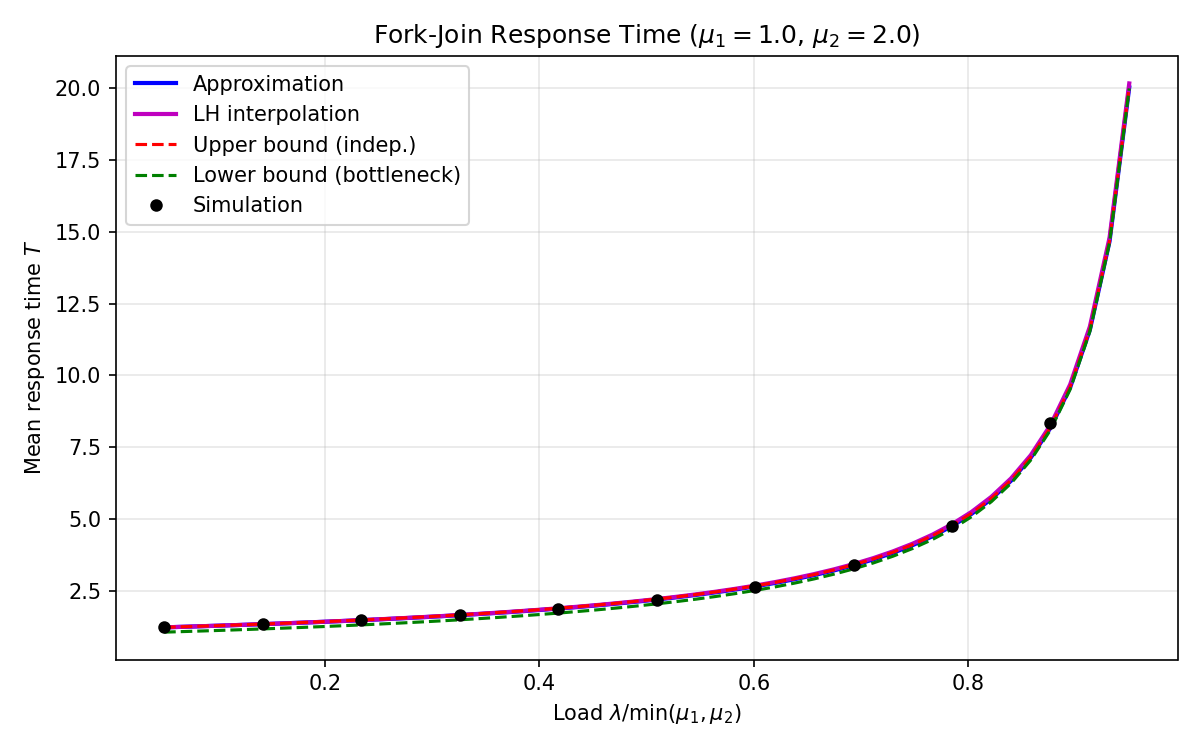
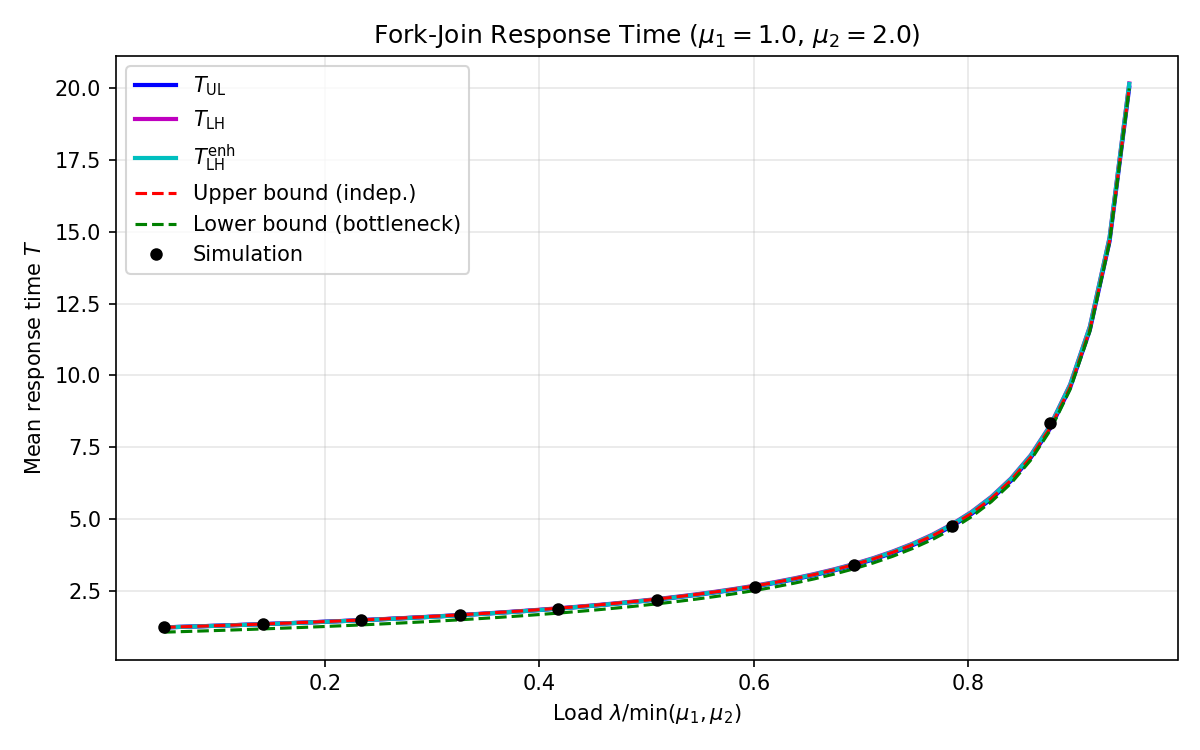
Add T_LH_enh to verify_formulas.py and plotting.py
verify_formulas.py:
- Add T_LH_enh to homogeneous verification (asserts c2=0, exact Nelson-Tantawi)
- Add verify_enhanced_lh() checking exactness at r=1 and improvement at r>=2

plotting.py:
- Add T_LH_enh curve (cyan) to both plot functions
- Use LaTeX labels for all three approximation curves

diff --git a/verify_formulas.py b/verify_formulas.py
@@ -8,6 +8,7 @@ from forkjoin.analytical import (
     nelson_tantawi,
     mean_response_time,
     mean_response_time_lh,
+    mean_response_time_lh_enhanced,
     _validate
 )
 
@@ -32,13 +33,19 @@ def verify_homogeneous():
             print(f"\nlam={lam:.1f}, rho={rho:.2f}")
             print(f"  Nelson-Tantawi: {t_nelson:.6f}")
             print(f"  T_UL:            {t_ul:.6f}  (error: {(t_ul-t_nelson)/t_nelson*100:.4f}%)")
+            t_lhe = mean_response_time_lh_enhanced(lam, mu, mu)
             print(f"  T_LH:            {t_lh:.6f}  (error: {(t_lh-t_nelson)/t_nelson*100:.4f}%)")
+            print(f"  T_LH_enh:        {t_lhe:.6f}  (error: {(t_lhe-t_nelson)/t_nelson*100:.4f}%)")
             print(f"  T_UB:            {t_ub:.6f}")
             print(f"  T_bot:           {t_bot:.6f}")
 
             # Verify T_UL is close to Nelson-Tantawi
             assert abs(t_ul - t_nelson) / t_nelson < 1e-10, "T_UL should exactly match Nelson-Tantawi"
             print("  ✓ T_UL = Nelson-Tantawi (exact)")
+
+            # Verify T_LH_enh = T_LH in homogeneous case (c2 must be zero)
+            assert abs(t_lhe - t_nelson) / t_nelson < 1e-10, "T_LH_enh should exactly match Nelson-Tantawi"
+            print("  ✓ T_LH_enh = Nelson-Tantawi (exact, c2=0)")
 
         except Exception as e:
             print(f"  Error: {e}")
@@ -114,8 +121,44 @@ def verify_formulas():
     print(f"  Difference:      {t_impl - t_simplified:.2e}")
     print(f"  Relative error:  {(t_impl - t_simplified)/t_simplified*100:.6f}%")
 
+def verify_enhanced_lh():
+    """Verify T_LH_enh properties: homogeneous exactness and improvement at high r."""
+    print("\n" + "=" * 60)
+    print("ENHANCED LH VERIFICATION")
+    print("=" * 60)
+
+    # 1. Homogeneous: c2 must be zero, result must equal Nelson-Tantawi exactly
+    print("\n--- Homogeneous case (r=1): T_LH_enh must equal Nelson-Tantawi ---")
+    mu = 1.0
+    for lam in [0.1, 0.3, 0.6, 0.9]:
+        t_nt  = nelson_tantawi(lam, mu)
+        t_lhe = mean_response_time_lh_enhanced(lam, mu, mu)
+        err   = abs(t_lhe - t_nt) / t_nt
+        assert err < 1e-10, f"T_LH_enh != Nelson-Tantawi at lam={lam}: err={err}"
+        print(f"  lam={lam:.1f}: T_NT={t_nt:.6f}  T_LH_enh={t_lhe:.6f}  err={err:.2e}  ✓")
+
+    # 2. Heterogeneous (r>=2): T_LH_enh should be closer to simulation than T_LH
+    # We use the known simulation values from the paper as reference
+    print("\n--- High heterogeneity (r>=2): T_LH_enh error < T_LH error ---")
+    sim_values = {
+        (1.0, 2.0, 0.3): 1.582,
+        (1.0, 2.0, 0.6): 2.623,
+        (1.0, 3.0, 0.6): 2.546,
+        (1.0, 5.0, 0.6): 2.514,
+    }
+    for (mu1, mu2, lam), t_sim in sim_values.items():
+        t_lh  = mean_response_time_lh(lam, mu1, mu2)
+        t_lhe = mean_response_time_lh_enhanced(lam, mu1, mu2)
+        err_lh  = abs(t_lh  - t_sim) / t_sim * 100
+        err_lhe = abs(t_lhe - t_sim) / t_sim * 100
+        better = "✓" if err_lhe < err_lh else "✗"
+        print(f"  mu1={mu1}, mu2={mu2}, lam={lam}: "
+              f"T_LH err={err_lh:.2f}%  T_LH_enh err={err_lhe:.2f}%  {better}")
+
+
 if __name__ == "__main__":
     import math
     verify_homogeneous()
     verify_heterogeneous()
     verify_formulas()
+    verify_enhanced_lh()

diff --git a/forkjoin/plotting.py b/forkjoin/plotting.py
@@ -18,12 +18,14 @@ def plot_vs_load(mu1, mu2, lam_points=50, run_simulation=True, n_jobs=500_000):
 
     t_approx = [analytical.mean_response_time(l, mu1, mu2) for l in lams]
     t_lh = [analytical.mean_response_time_lh(l, mu1, mu2) for l in lams]
+    t_lhe = [analytical.mean_response_time_lh_enhanced(l, mu1, mu2) for l in lams]
     t_ub = [analytical.upper_bound_independent(l, mu1, mu2) for l in lams]
     t_bot = [analytical.lower_bound_bottleneck(l, mu1, mu2) for l in lams]
 
     fig, ax = plt.subplots(figsize=(8, 5))
-    ax.plot(loads, t_approx, "b-", linewidth=2, label="Approximation")
-    ax.plot(loads, t_lh, "m-", linewidth=2, label="LH interpolation")
+    ax.plot(loads, t_approx, "b-", linewidth=2, label=r"$T_{\mathrm{UL}}$")
+    ax.plot(loads, t_lh, "m-", linewidth=2, label=r"$T_{\mathrm{LH}}$")
+    ax.plot(loads, t_lhe, "c-", linewidth=2, label=r"$T_{\mathrm{LH}}^{\mathrm{enh}}$")
     ax.plot(loads, t_ub, "r--", linewidth=1.5, label="Upper bound (indep.)")
     ax.plot(loads, t_bot, "g--", linewidth=1.5, label="Lower bound (bottleneck)")
 
@@ -56,12 +58,14 @@ def plot_vs_heterogeneity(mu1, lam, mu2_range, run_simulation=True, n_jobs=500_0
 
     t_approx = [analytical.mean_response_time(lam, mu1, m) for m in mu2_arr]
     t_lh = [analytical.mean_response_time_lh(lam, mu1, m) for m in mu2_arr]
+    t_lhe = [analytical.mean_response_time_lh_enhanced(lam, mu1, m) for m in mu2_arr]
     t_ub = [analytical.upper_bound_independent(lam, mu1, m) for m in mu2_arr]
     t_bot = [analytical.lower_bound_bottleneck(lam, mu1, m) for m in mu2_arr]
 
     fig, ax = plt.subplots(figsize=(8, 5))
-    ax.plot(ratios, t_approx, "b-", linewidth=2, label="Approximation")
-    ax.plot(ratios, t_lh, "m-", linewidth=2, label="LH interpolation")
+    ax.plot(ratios, t_approx, "b-", linewidth=2, label=r"$T_{\mathrm{UL}}$")
+    ax.plot(ratios, t_lh, "m-", linewidth=2, label=r"$T_{\mathrm{LH}}$")
+    ax.plot(ratios, t_lhe, "c-", linewidth=2, label=r"$T_{\mathrm{LH}}^{\mathrm{enh}}$")
     ax.plot(ratios, t_ub, "r--", linewidth=1.5, label="Upper bound (indep.)")
     ax.plot(ratios, t_bot, "g--", linewidth=1.5, label="Lower bound (bottleneck)")
 
